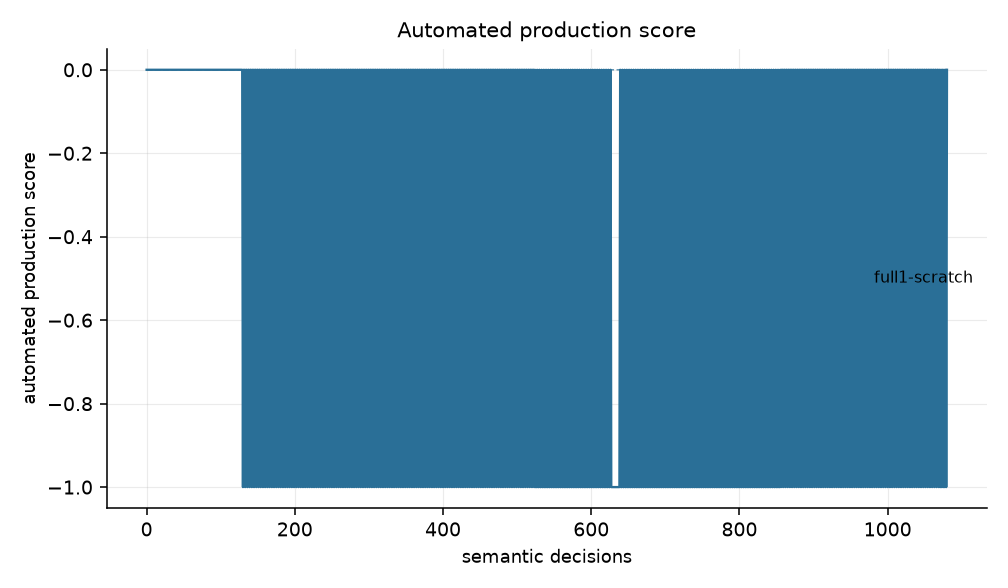
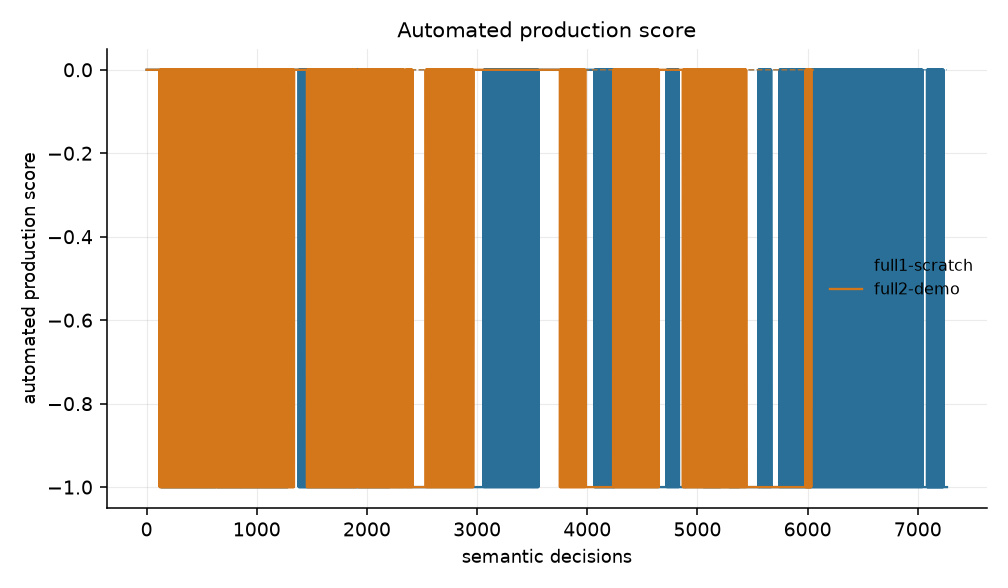
FULL-1 final numbers and the run table

diff --git a/SM_ARQ_M3_OVERNIGHT_RESULTS.md b/SM_ARQ_M3_OVERNIGHT_RESULTS.md
@@ -216,15 +216,26 @@ over 5000 decisions, three workers each on their own Factorio server.
 | run | reward | seeding | ports | status |
 |---|---|---|---|---|
 | FULL-1 `full1-scratch` | automated | scratch | 27000-27002 | running |
-| FULL-2 `full2-demo` | automated | 6 live burner demonstrations at PER priority 10 | 27003-27005 | running |
-| FULL-3 | production (ablation) | scratch | - | not run: all six servers are committed to FULL-1/2, which the brief prioritises |
+| FULL-2 `full2-demo` | automated | 6 live burner demonstrations at PER priority 10 | 27003-27005 | ran 1 h 50 m |
+| FULL-3 | production (ablation) | scratch | - | not run: the six servers were committed to FULL-1/2, which the brief prioritises, and then to the near-ore arm below |
+| NEAR-ORE (extra, not in the brief) | automated | scratch, episodes start beside ore | 27000-27002 | started 07:33 on the servers FULL-1 freed |
 
 Results are filled from `tests/benchmarks/smarq_status.py`; every number here is
 measured, never projected.
 
-| run | decisions | episodes | max automated | automated / game min | decisions per wall s | updates |
-|---|---:|---:|---:|---:|---:|---:|
-| _filling as the runs progress_ | | | | | | |
+| run | decisions | episodes | simulated | final automated (max / mean) | final production (max / mean) | automated per game min | decisions / wall s | updates | wall |
+|---|---:|---:|---:|---:|---:|---:|---:|---:|---:|
+| FULL-1 scratch | 7,266 | 19 | 528.4 game min | **0 / −0.68** | 923 / 229 | −0.024 | 1.03 | 7,266 | 1 h 58 m |
+| FULL-2 demo-seeded | 5,043 (6,045 logged) | 16 | 480.0 game min | **0 / −0.75** | 661 / 183 | −0.025 | 0.98 | ~5,900 | 1 h 50 m (running) |
+
+Aggregate simulation throughput was 4.5 game-seconds per wall-second across three
+workers; episodes ended on the simulated-time budget in every case except the three that
+were cut by the stop signal, so the 30-game-minute horizon bound the episodes as intended
+and repeated FAST_FORWARD never extended one.
+
+**The headline number is that the automated production score never rose above 0 in
+either run.** Its mean at episode end is slightly negative because hand work floors it at
+−1. The general production score, meanwhile, reached 923.
 
 ### What the scratch run does early
 
